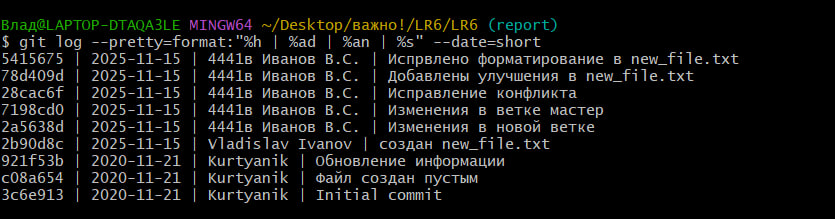
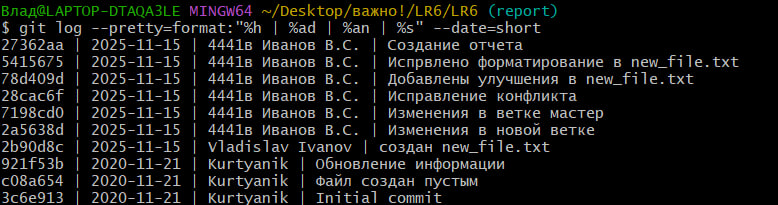
Исправления в отчете

diff --git a/README.md b/README.md
@@ -84,9 +84,29 @@ git status
 
 ---
 
-## 13. Создать ветку для отчёта 
+# 10. Создать ветку для отчёта 
 ## Создана ветка для отчета git checkout -b report 
 
 ![Создание ветки для отчёта]screenshots/(12_report_branch.jpg)
 
 ---
+
+# 15. Получить историю операций в форматированном виде (сокращённый хэш + дата + имя автора + комментарий)
+$ git log --pretty=format:"%h | %ad | %an | %s" --date=short
+27362aa | 2025-11-15 | 4441в Иванов В.С. | Создание отчета
+5415675 | 2025-11-15 | 4441в Иванов В.С. | Испрвлено форматирование в new_file.txt
+78d409d | 2025-11-15 | 4441в Иванов В.С. | Добавлены улучшения в new_file.txt
+28cac6f | 2025-11-15 | 4441в Иванов В.С. | Исправление конфликта
+7198cd0 | 2025-11-15 | 4441в Иванов В.С. | Изменения в ветке мастер
+2a5638d | 2025-11-15 | 4441в Иванов В.С. | Изменения в новой ветке
+2b90d8c | 2025-11-15 | Vladislav Ivanov | создан new_file.txt
+921f53b | 2020-11-21 | Kurtyanik | Обновление информации
+c08a654 | 2020-11-21 | Kurtyanik | Файл создан пустым
+3c6e913 | 2020-11-21 | Kurtyanik | Initial commit
+
+![Исторя операций](screenshots/13_history.jpg)
+
+---
+
+# 11. Отправить локальные изменения в сетевое хранилище GitHub
+git push origin report
